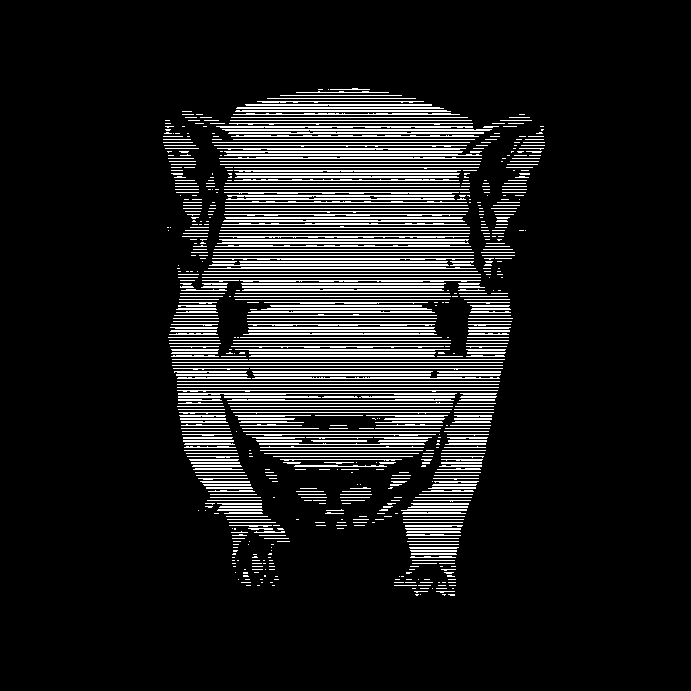
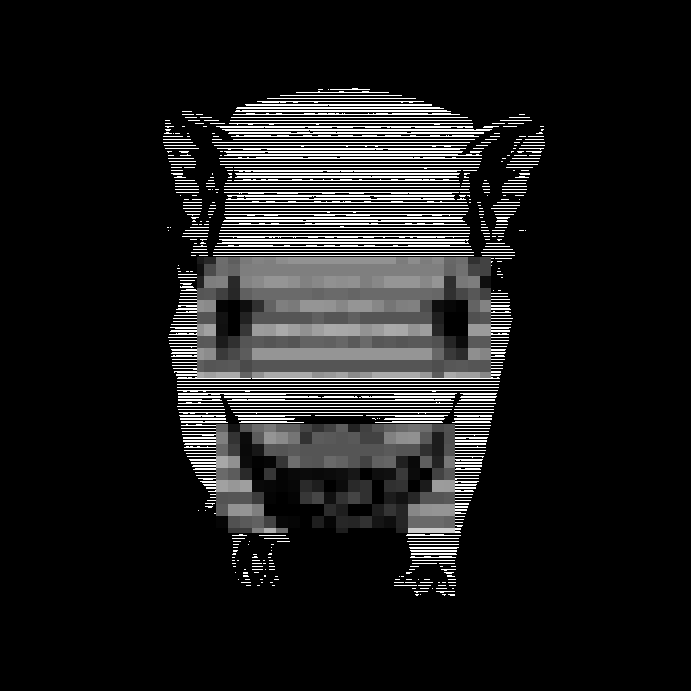
slightly bigger default rat image

Changed region(s): [[0.2735, 0.3647, 0.7294, 0.547], [0.3039, 0.6078, 0.6686, 0.7902]]

diff --git a/packages/client/src/svelte/components/Main/RatContainer/DeployRat/DeployRat.svelte b/packages/client/src/svelte/components/Main/RatContainer/DeployRat/DeployRat.svelte
@@ -69,12 +69,11 @@
   .image-container {
     display: flex;
     flex-flow: column nowrap;
-    // gap: 20px;
-    padding: 20px;
+    height: 360px;
 
     img {
       width: 100%;
-      height: 300px;
+      height: 100%;
       object-fit: contain;
       mix-blend-mode: screen;
     }
